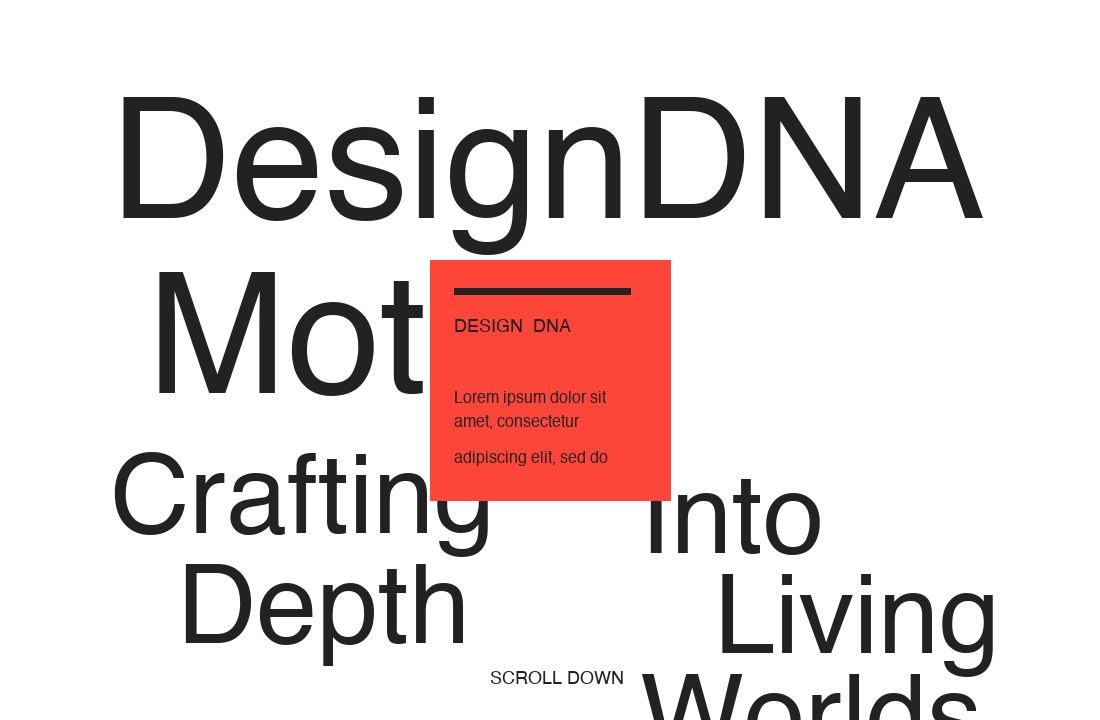
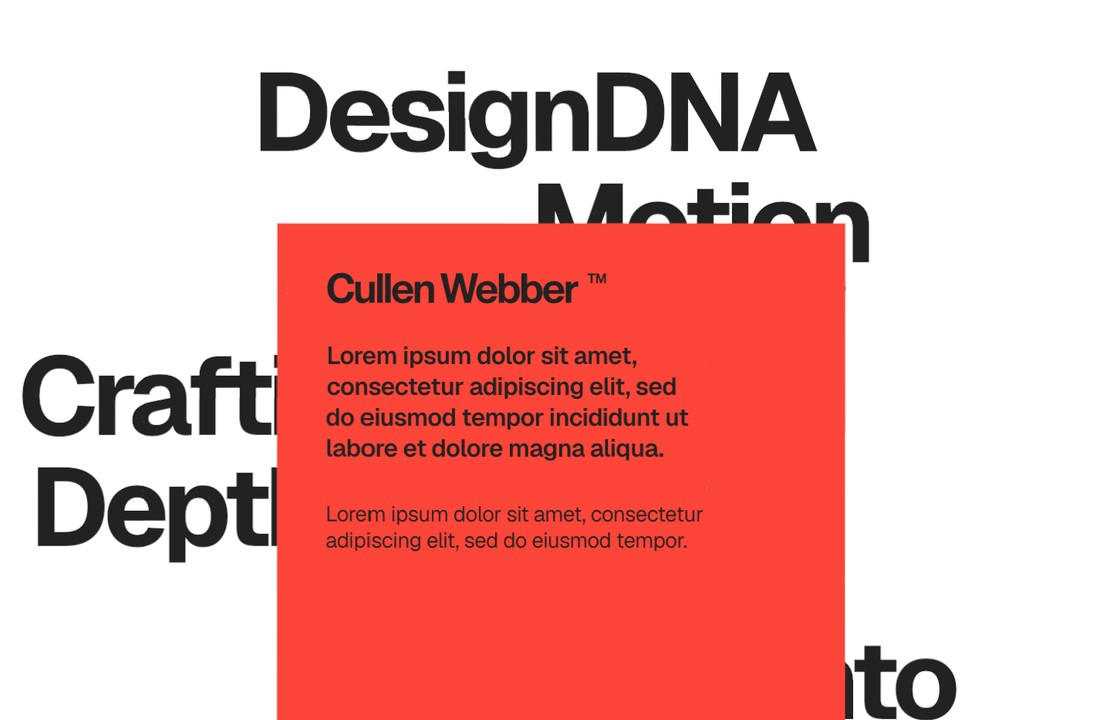
feat(card): three-html-to-canvas 重新上线
撤销之前的下线 commit 2319635（未 push）。
卡顿原因不是这张卡本身——HEAVY_GPU_SLUGS 路径下 feed 只显示
posters/<slug>.jpg 的 <img> 元素（lazy + async decode），完全不会
拖慢 feed。之前可能是首次加载 dist/ 子站点时 GPU 占用错觉。

新增：
- posters/three-html-to-canvas.jpg 用 karo 提供的 1426×1438 真截图
  resize+裁剪到 1100×720（之前是 PIL 画的占位）
- POSTER_VERSION 25 → 26（强制刷新 jpg）
- app.js?v=23 → v=24

diff --git a/app.js b/app.js
@@ -162,7 +162,7 @@ var HEAVY_GPU_SLUGS = new Set([
   'onscroll-filter',      // 7 张 SVG image + feTurbulence/feDisplacementMap 噪声滤镜，scroll-driven
   'lines-to-layout',      // GSAP Flip 大字行 → image 大图布局切换 + custom cursor
   'architecture-overview',// p5.js polar perlin loops + 60 圈 RAF + Linear-token UI
-  'three-html-to-canvas', // three.js GLTF + HTML→SVG foreignObject→CanvasTexture 投影 + Lenis 循环滚
+  'three-html-to-canvas', // three.js GLTF + foreignObject CanvasTexture 投影；feed 走 poster jpg，详情走 STANDALONE，feed 不会卡
 ]);
 
 function _loadFrame(card){
@@ -1342,6 +1342,8 @@ function buildPinnedFor(styleId, headlineFallback){
     });
   } catch(_){}
   // Three HTML to Canvas — Cullen Webber: HTML→SVG foreignObject→CanvasTexture 投影到 GLTF 模型
+  // 性能策略：feed 走 HEAVY_GPU 路径（<img> 直挂 poster.jpg 零 GPU 开销），详情走 STANDALONE 整页跳，
+  // 这样 feed 永远不会因为这张卡卡顿（同 vortex / architecture-overview / cinematic 的机制）。
   try {
     firstBatch.push({
       id:'d-three-html-to-canvas', styleId:'three-html-to-canvas', styleLabel:'HTML projected on 3D', sref:'cullenwebber-three-html-to-canvas', prompt:'Cullen Webber three-html-to-canvas HTML foreignObject CanvasTexture projection on GLTF mesh with Lenis loop scroll', pinned:true,

diff --git a/index.html b/index.html
@@ -14,7 +14,7 @@
 <meta property="og:title" content="Design DNA — endless designs, just scroll">
 <meta property="og:description" content="A curated feed of design inspiration. 1100×720 cards, real animations, no slop.">
 <!-- POSTER 缓存版本：每次替换 posters/*.jpg 时手动 +1，让浏览器立刻拉新图。 -->
-<script>window.POSTER_VERSION = '25';</script>
+<script>window.POSTER_VERSION = '26';</script>
 <!-- 大尺寸 stub 预览图 preload：让浏览器在主线程层就开始拉，等 iframe srcdoc 挂载时直接命中 HTTP cache，避免首次进卡 1-2s 白屏 -->
 <link rel="preload" as="image" href="cinematic-3d-scroll-preview.jpg?v=202605171322" fetchpriority="high">
 <link rel="preload" as="image" href="webgl-magazine-preview.jpg?v=202605161457" fetchpriority="high">
@@ -565,6 +565,6 @@
 <!-- flip-horizontal-lenis removed -->
 <!-- mono-x7 removed -->
 <!-- lumi removed -->
-<script defer src="./app.js?v=22"></script>
+<script defer src="./app.js?v=24"></script>
 </body>
 </html>
